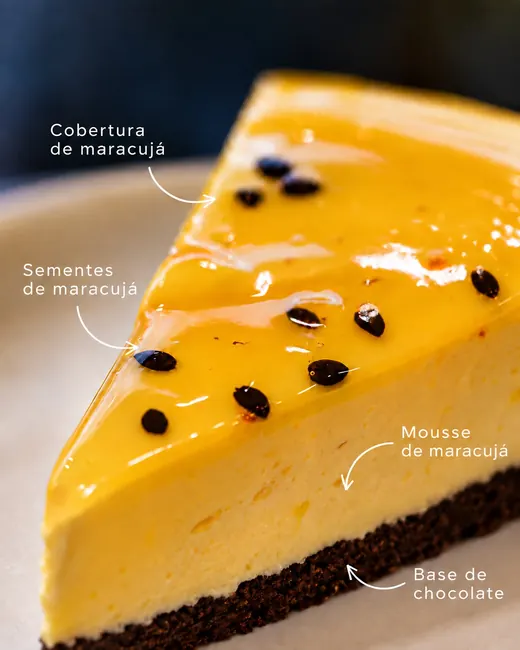
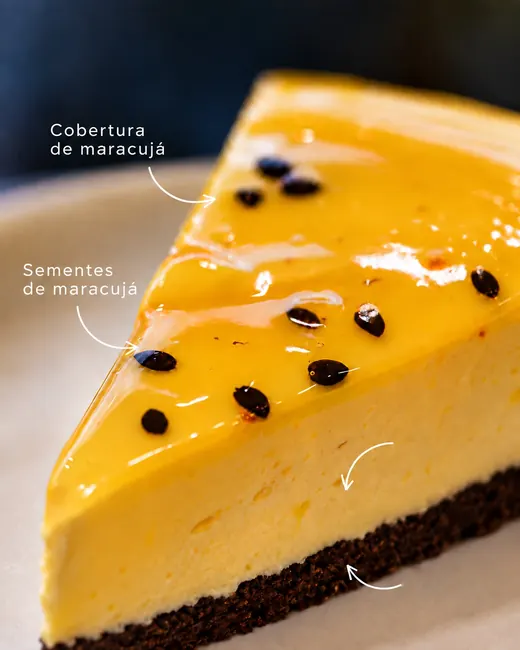
Previews: 44 ativos

Changed region(s): [[0.7692, 0.6462, 0.9846, 0.7077], [0.8, 0.8615, 0.9846, 0.9231]]

diff --git a/pao-da-vila-joinville-sc/almoco.html b/pao-da-vila-joinville-sc/almoco.html
@@ -42,7 +42,7 @@
   <div class="vidro">
     <ul class="prateleira p-almoco">
       <li class="largo"><div class="foto"><img src="img/almoco-servido-630.webp" srcset="img/almoco-servido-630.webp 630w" sizes="(max-width: 860px) 100vw, 44vw" width="630" height="492" alt="Homem de camisa do Pão da Vila sorrindo à mesa, com a frase: O almoço está servido!" loading="lazy" decoding="async"></div><p class="etiqueta">À mesa no Pão da Vila</p></li>
-      <li><div class="vaga"><img src="img/gratinado-800.webp" srcset="img/gratinado-480.webp 480w, img/gratinado-800.webp 800w" sizes="(max-width: 860px) 50vw, 30vw" width="800" height="526" alt="Pedaço gratinado, com queijo dourado e ervas por cima" loading="lazy" decoding="async"></div><p class="etiqueta">Gratinado de queijo e ervas</p></li>
+      <li><div class="vaga"><img src="img/gratinado-800.webp" srcset="img/gratinado-480.webp 480w, img/gratinado-800.webp 800w" sizes="(max-width: 860px) 50vw, 30vw" width="800" height="526" alt="Pedaço gratinado, com queijo dourado e ervas por cima" loading="lazy" decoding="async"></div><p class="etiqueta">Gratinado</p></li>
       <li><div class="foto"><img src="img/marmita-900.webp" srcset="img/marmita-520.webp 520w, img/marmita-900.webp 900w" sizes="(max-width: 860px) 50vw, 26vw" width="900" height="1126" alt="Marmita de isopor com arroz, feijão, bife, batata frita e salada, com a frase: Sabor de comida caseira, com o carinho da padoca" loading="lazy" decoding="async"></div><p class="etiqueta">Marmita</p></li>
     </ul>
   </div>
@@ -59,7 +59,7 @@
   <div class="rodape-in">
     <div>
       <p class="rodape-nome">Pão da Vila</p>
-      <p>O vizinho que t&#111;do mundo confia!</p>
+      <p>O vizinho que todo mundo confia!</p>
     </div>
     <div>
       <p>Rua João Meiers, 795<br>Joinville, SC, 89237-200</p>

diff --git a/pao-da-vila-joinville-sc/estilo.css b/pao-da-vila-joinville-sc/estilo.css
@@ -89,9 +89,9 @@ html:not(.js) .topo { flex-wrap: wrap; }
 .prateleira li { position: relative; }
 .prateleira li:has(.frente) { z-index: 2; }
 .vaga.atras { justify-content: flex-end; padding-right: 0; }
-.vaga.atras img { margin-right: -5%; max-width: 105%; }
+.vaga.atras img { max-width: 100%; }
 .vaga.frente { justify-content: flex-start; padding-left: 0; }
-.vaga.frente img { max-width: 88%; }
+.vaga.frente img { max-width: 92%; margin-left: -18%; }
 .vaga img { max-height: 100%; width: auto; object-fit: contain; object-position: bottom; filter: drop-shadow(0 8px 6px rgba(0, 0, 0, .45)); }
 .etiqueta { background: var(--maracuja); color: var(--cacau); font-weight: 700; font-size: 1rem; line-height: 1.15; min-height: 46px; display: flex; align-items: center; justify-content: center; text-align: center; padding: 4px 8px; box-shadow: inset 0 3px 0 rgba(255, 255, 255, .35); }
 .prateleira li:nth-child(odd) .etiqueta { border-right: 1px solid rgba(59, 36, 23, .35); }
@@ -171,6 +171,9 @@ figcaption { font-size: .9375rem; font-weight: 600; padding-top: 6px; line-heigh
 .r2 { left: 15.5%; top: 43%; }
 .r3 { left: 86.5%; top: 68%; }
 .r4 { left: 87%; top: 90%; }
+@media (max-width: 860px) {
+  .r3, .r4 { left: auto; right: 12px; transform: translateY(-50%); }
+}
 .camadas-txt { padding: 30px var(--gut) 38px; }
 .camadas-txt h2 { font-size: clamp(1.875rem, 1.4rem + 2vw, 2.875rem); color: var(--maracuja); margin-bottom: 22px; }
 

diff --git a/pao-da-vila-joinville-sc/confeitaria.html b/pao-da-vila-joinville-sc/confeitaria.html
@@ -32,7 +32,7 @@
     <img src="img/cheesecake-1122.webp" srcset="img/cheesecake-520.webp 520w, img/cheesecake-900.webp 900w, img/cheesecake-1122.webp 1122w" sizes="(max-width: 860px) 100vw, 560px" width="1122" height="1402" alt="Fatia de maracujá com sementes, em camadas sobre base de chocolate" loading="lazy" decoding="async">
     <span class="rotulo r1">Cobertura<br>de maracujá</span>
     <span class="rotulo r2">Sementes<br>de maracujá</span>
-    <span class="rotulo r3">Mousse<br>de maracujá</span>
+    <span class="rotulo r3">Creme<br>de maracujá</span>
     <span class="rotulo r4">Base de<br>chocolate</span>
   </div>
   <div class="camadas-txt">
@@ -64,7 +64,7 @@
   <div class="rodape-in">
     <div>
       <p class="rodape-nome">Pão da Vila</p>
-      <p>O vizinho que t&#111;do mundo confia!</p>
+      <p>O vizinho que todo mundo confia!</p>
     </div>
     <div>
       <p>Rua João Meiers, 795<br>Joinville, SC, 89237-200</p>

diff --git a/pao-da-vila-joinville-sc/index.html b/pao-da-vila-joinville-sc/index.html
@@ -50,7 +50,7 @@
     <div class="prato"><img src="img/mesa-1100.webp" srcset="img/mesa-420.webp 420w, img/mesa-720.webp 720w, img/mesa-1100.webp 1100w" sizes="(max-width: 860px) 42vw, 440px" width="1100" height="1100" alt="Almoço servido visto de cima: arroz, salada, batata frita, feijão, bife e ovo" fetchpriority="auto"></div>
   </div>
 </section>
-<p class="faixa">O vizinho que t&#111;do mundo confia. Rua João Meiers, 795, Joinville.</p>
+<p class="faixa">O vizinho que todo mundo confia. Rua João Meiers, 795, Joinville.</p>
 
 <section class="vitrine" data-vitrine aria-labelledby="t-vitrine">
   <div class="vitrine-cab">
@@ -122,7 +122,7 @@
   <div class="rodape-in">
     <div>
       <p class="rodape-nome">Pão da Vila</p>
-      <p>O vizinho que t&#111;do mundo confia!</p>
+      <p>O vizinho que todo mundo confia!</p>
     </div>
     <div>
       <p>Rua João Meiers, 795<br>Joinville, SC, 89237-200</p>

diff --git a/pao-da-vila-joinville-sc/encomendas.html b/pao-da-vila-joinville-sc/encomendas.html
@@ -54,7 +54,7 @@
   <div class="rodape-in">
     <div>
       <p class="rodape-nome">Pão da Vila</p>
-      <p>O vizinho que t&#111;do mundo confia!</p>
+      <p>O vizinho que todo mundo confia!</p>
     </div>
     <div>
       <p>Rua João Meiers, 795<br>Joinville, SC, 89237-200</p>

diff --git a/pao-da-vila-joinville-sc/padaria.html b/pao-da-vila-joinville-sc/padaria.html
@@ -50,7 +50,7 @@
   <div class="rodape-in">
     <div>
       <p class="rodape-nome">Pão da Vila</p>
-      <p>O vizinho que t&#111;do mundo confia!</p>
+      <p>O vizinho que todo mundo confia!</p>
     </div>
     <div>
       <p>Rua João Meiers, 795<br>Joinville, SC, 89237-200</p>
